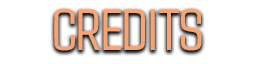
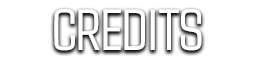
updated credits button, added skip title option

Changed region(s): [[0.1875, 0.125, 0.8125, 0.8125]]

diff --git a/breakout.cpp b/breakout.cpp
@@ -52,6 +52,11 @@ void Breakout::initialize(HWND hwnd)
     // init the console log
     console.initialize(graphics);
 
+    // for testing
+    if (skipTitleScreen) {
+        startNewGame();
+    }
+
     return;
 }
 
@@ -340,6 +345,7 @@ void Breakout::collisions()
                     }
                 } else {
                     // invincible!
+                    //block->bounce
                     audio->playCue(CLICK);
                 }
 

diff --git a/Button.h b/Button.h
@@ -5,8 +5,8 @@
 #include "input.h"
 
 namespace buttonNS {
-	const COLOR_ARGB DEFAULT_COLOR = graphicsNS::ALPHA75;
-	const COLOR_ARGB MOUSE_OVER_COLOR = graphicsNS::WHITE;
+	const COLOR_ARGB DEFAULT_COLOR = D3DCOLOR_ARGB(255, 247, 163, 114);;
+	const COLOR_ARGB MOUSE_OVER_COLOR = D3DCOLOR_ARGB(255, 166, 222, 226);
 }
 
 /// <summary>

diff --git a/breakout.h b/breakout.h
@@ -28,6 +28,9 @@ class Breakout : public Game
 {
 private:
     // variables
+    // testing
+    bool skipTitleScreen = true;
+
     std::vector<Block> blocks;
     //std::string logText;
     int score;
